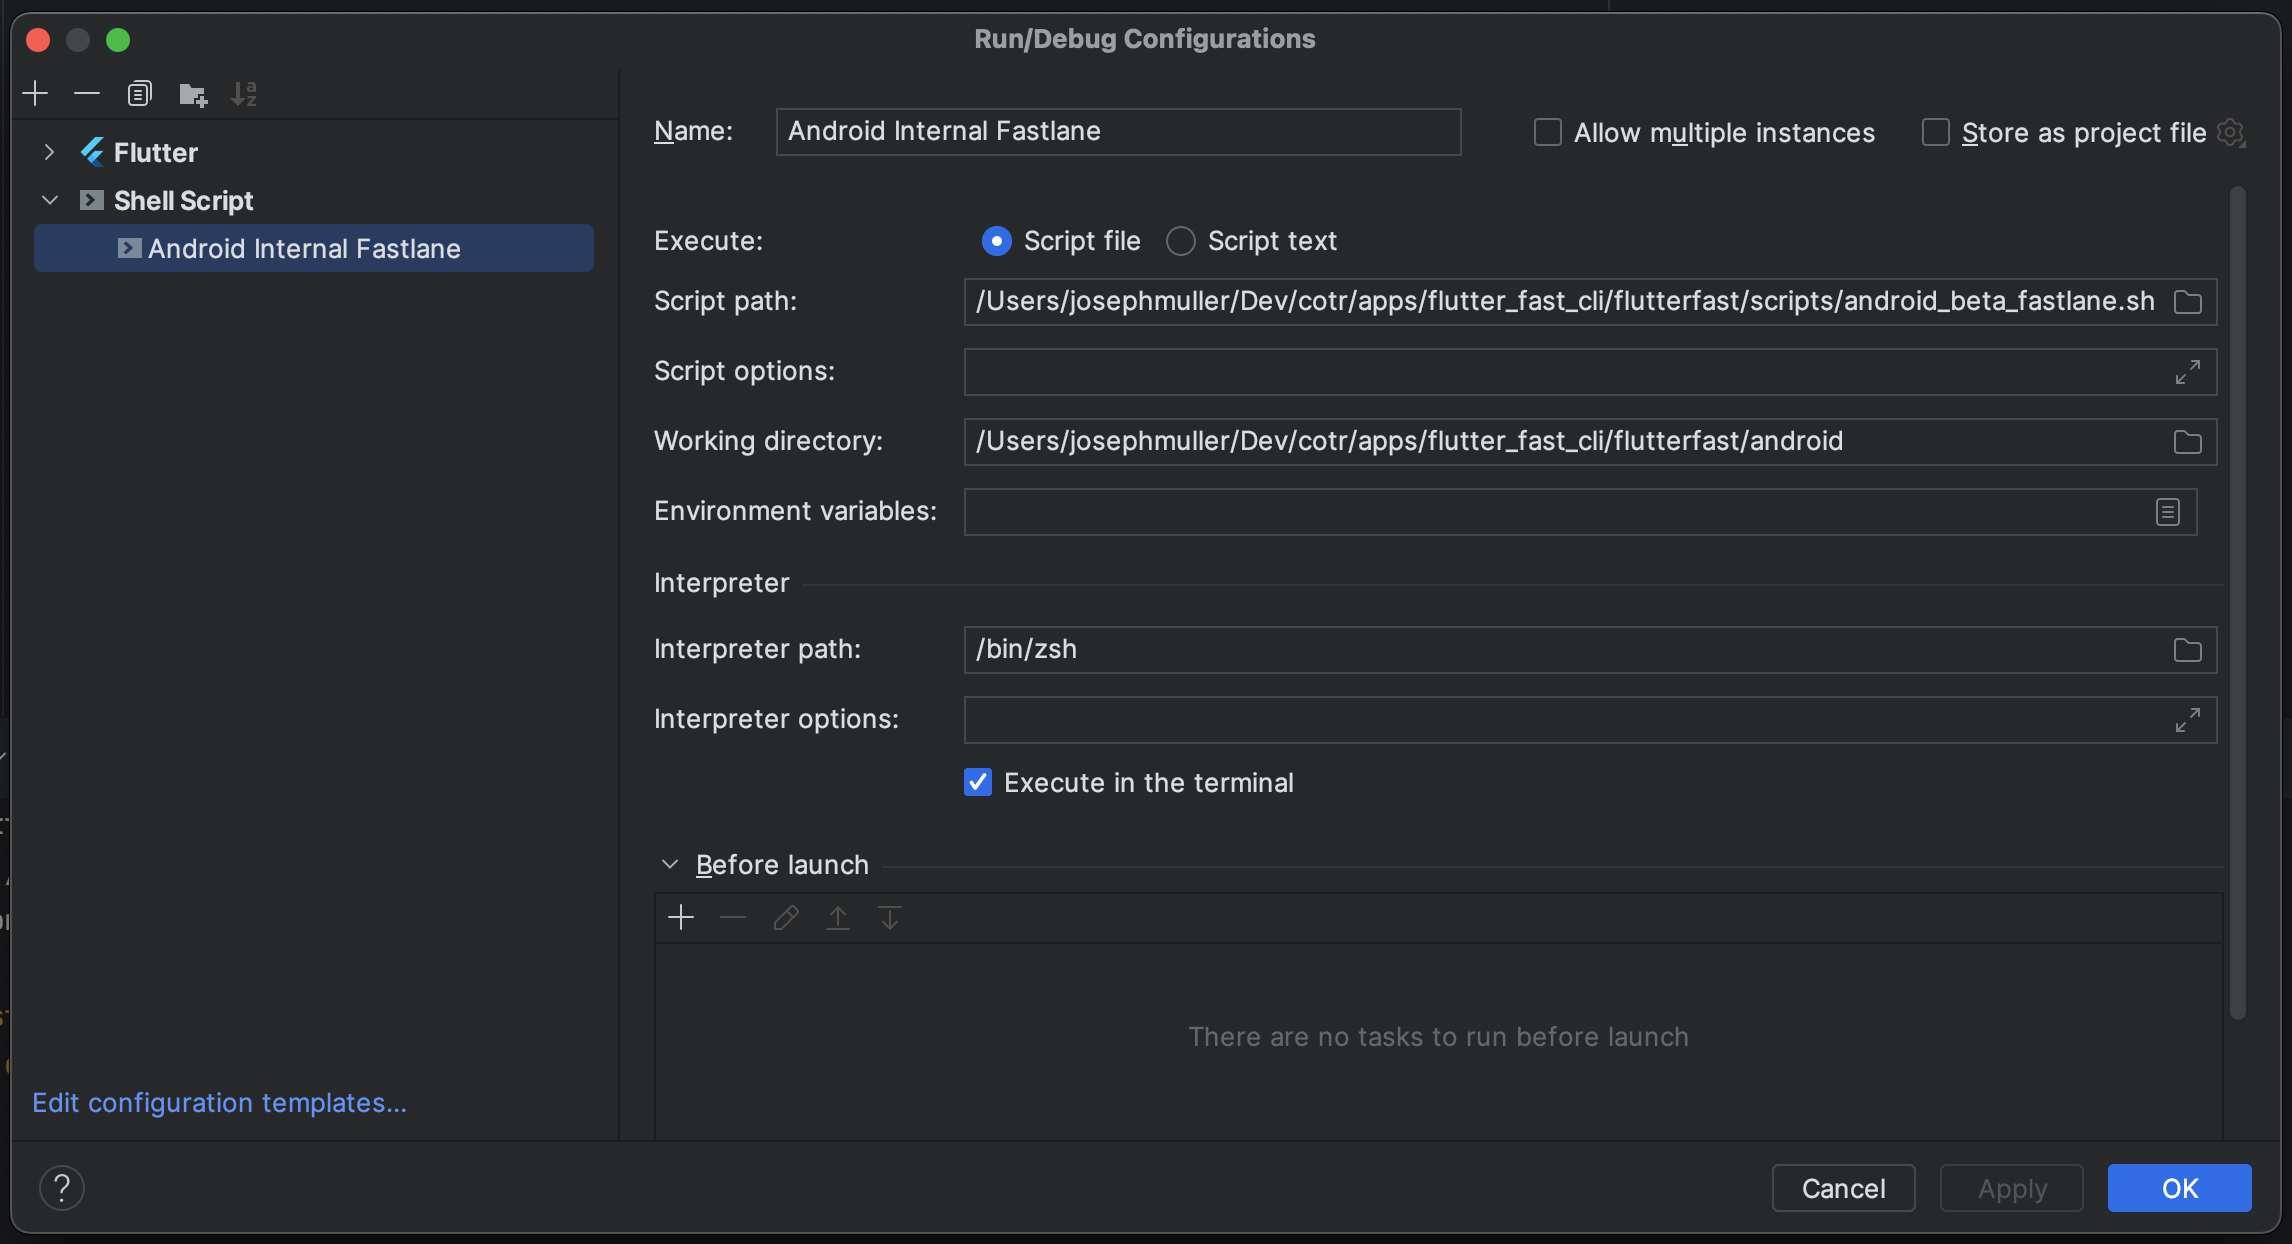
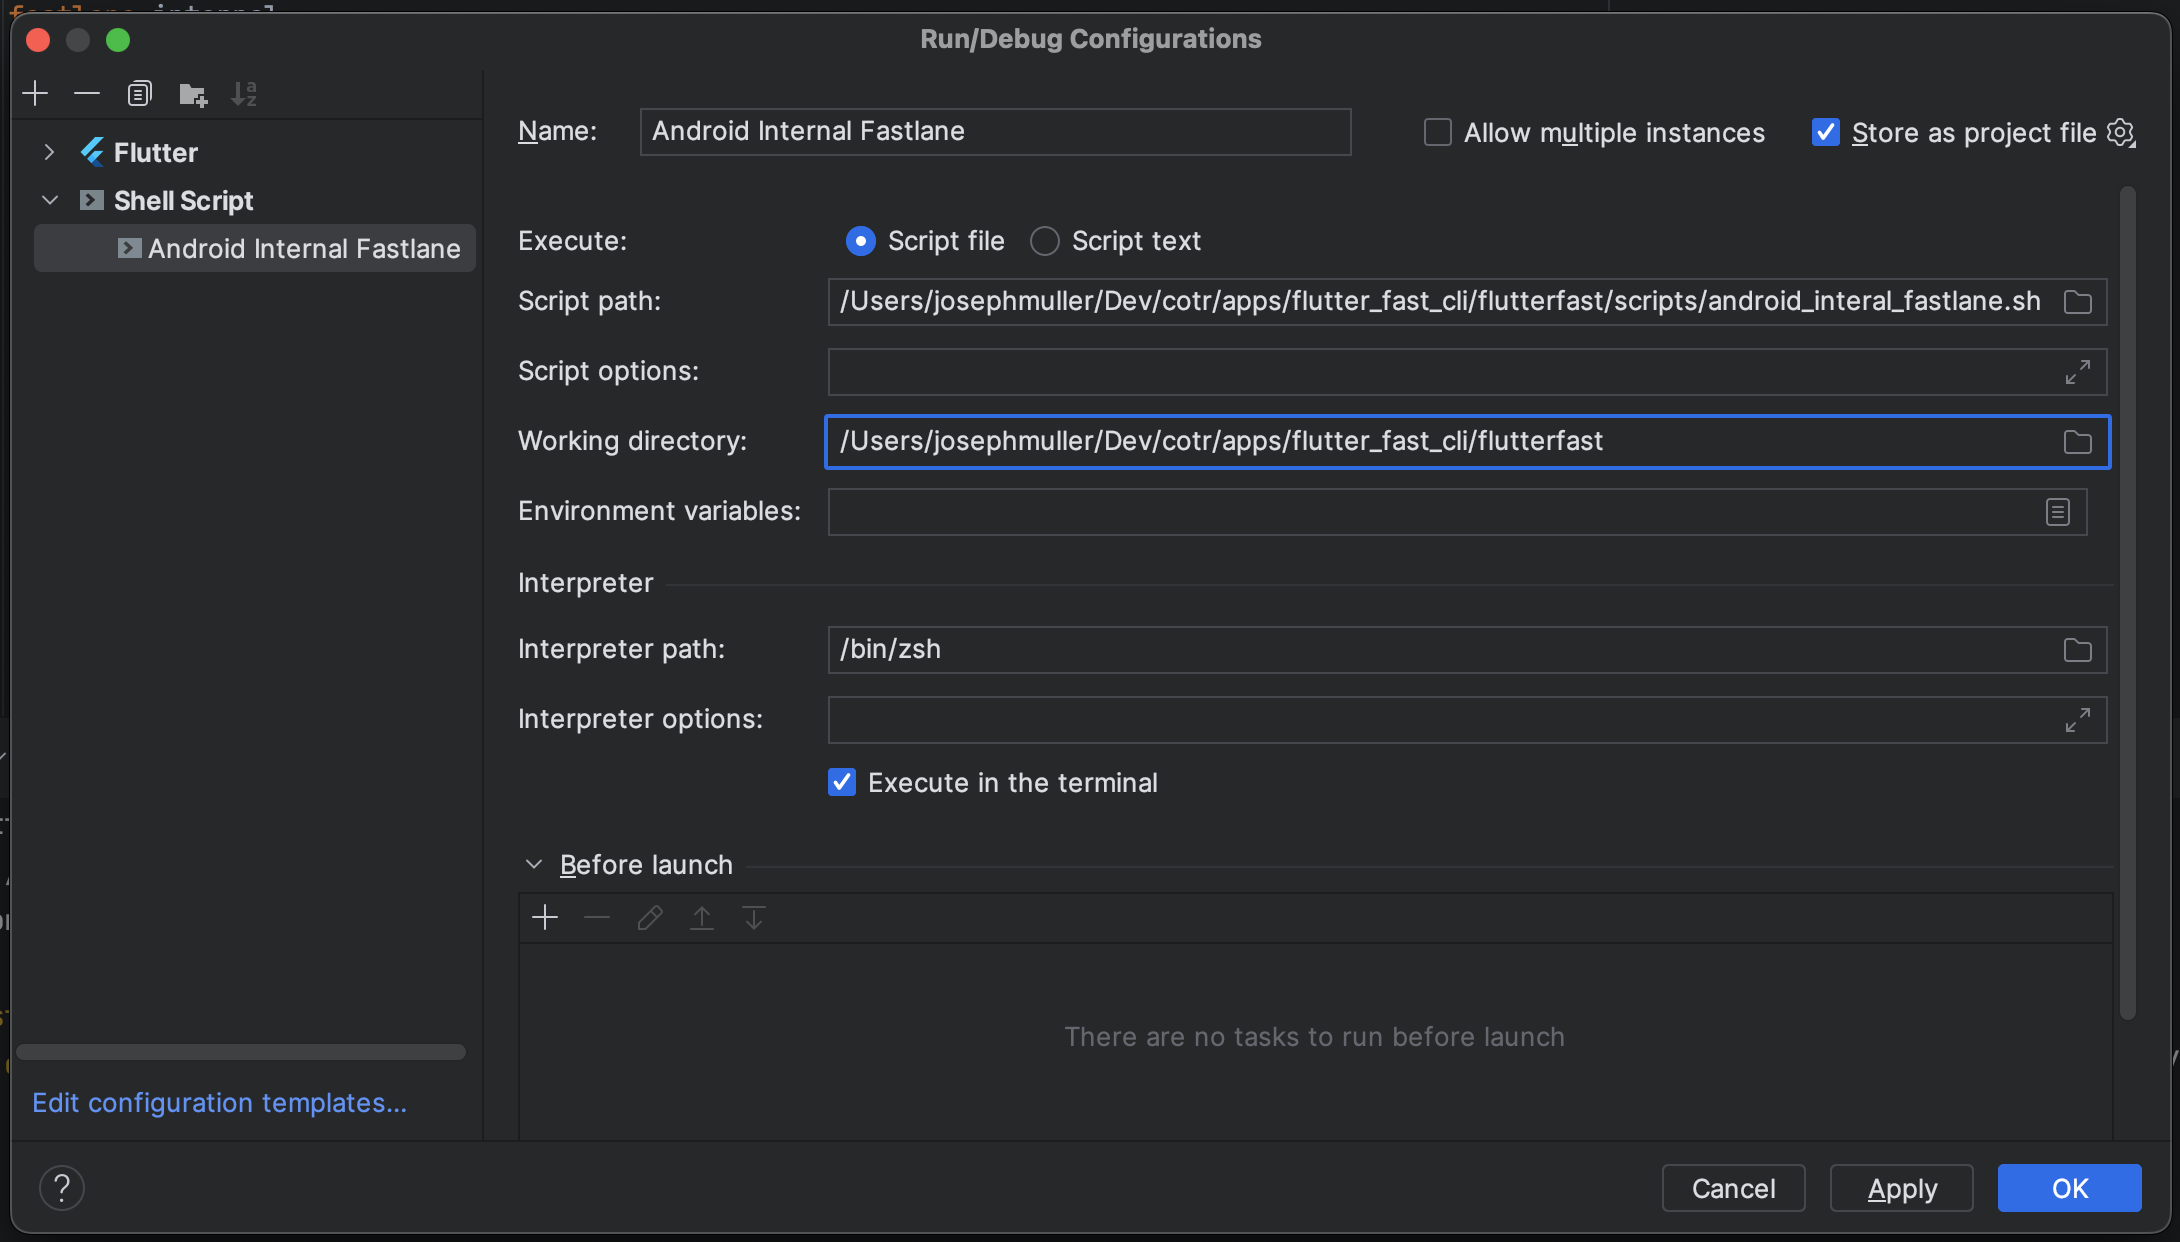
Docs link

diff --git a/src/content/docs/docs/setup/fastlane.md b/src/content/docs/docs/setup/fastlane.md
@@ -10,16 +10,40 @@ Nothing to do ☕
 The Flutter Fast boilerplate includes simple shell scripts you can use to run the Fastlane files without using the terminal.
 
 #### Android Studio
+:::note
+This is completed for you in version 1.0.3
+:::
 1. Select the drop down by the run button in the top toolbar
 2. Select "Edit Configurations"
 3. Add a new "Shell Script" configuration using the plus icon
 4. Rename the configuration to match the Fastlane file you are setting up (ex. Android Internal Fastlane)
-5. Update the script path to point to the matching fastlane script (in the scripts folder
-6. Update the working directory to point to your app's android folder
+5. Update the script path to point to the matching fastlane script (in the scripts folder)
+6. Update the working directory to point to your app's root folder
 7. Hit "OK"
 
 
 ![Android Studio Script Setup](./android_shell_setup.png)
 
+Once this is setup, you can run the "Android Internal Fastlane" script from the runner dropdown.
+
+#### VS Code
+
+:::note
+This is completed for you in version 1.0.3
+:::
+
+On the Run and Debug tab, select the link to create a launch.json file if you don't already have one. Choose the "Dart and Flutter" template when asked: 
 
 
+![VS Code Script setup](./vs-code-setup.png)
+
+Add a new entry to the configurations list that looks like this:
+```
+{
+    "name": "iOS Beta Fastlane",
+    "request": "launch",
+    "type": "node-terminal",
+    "command": "bash ${workspaceFolder}/scripts/ios_beta_fastlane.sh",
+}
+```
+Now you can select "iOS Beta Fastlane" from the runner dropdown. Repeat steps to setup other fastlanes.

diff --git a/src/content/docs/docs/start/why.md b/src/content/docs/docs/start/why.md
@@ -3,23 +3,40 @@ title: Why Flutter Fast
 description: How can Flutter Fast save you time, money, and brain power
 ---
 Flutter is fast by default, but setting up a new project isn't. You need...
-- An authentication service with sign in, sign up, forgot password, and profile pages. 
-- Onboarding logic.
-- A database. 
-- A dependency injection solution. 
-- A state management package. 
-- A theme. 
-- A handful of dependencies in your pubspec. 
-- An analysis_options.yaml file. 
-- Extensions.
-- CI/CD files.
-- A trusty .gitignore.
-- A subscription service and offering page.
-- Crash reporting.
-- An analytics infrastructure.
-- A router and navigation guards.
-- That thing you always forget.
-- That other thing you always forget.
+
+• An authentication service with sign in, sign up, forgot password, and profile pages. 
+
+• Onboarding logic.
+
+• A database. 
+
+• A dependency injection solution. 
+
+• A state management package. 
+
+• A theme. 
+
+• A handful of dependencies in your pubspec. 
+
+• An analysis_options.yaml file. 
+
+• Extensions.
+
+• CI/CD files.
+
+• A trusty .gitignore.
+  
+• A subscription service and offering page.
+
+• Crash reporting.
+
+• An analytics infrastructure.
+
+• A router and navigation guards.
+  
+• That thing you always forget.
+
+• That other thing you always forget.
 
 I created Flutter Fast because I wanted to jump straigt into the fun part of building my ideas without spending the first 8 hours getting everything _just_ right.
 

diff --git a/src/content/docs/docs/start/updates.md b/src/content/docs/docs/start/updates.md
@@ -21,6 +21,3 @@ dart pub global list
 
 flutter_fast_cli 1.0.1 at path "/Users/josephmuller/Dev/cotr/apps/flutter_fast_cli"
 ```
-- test 
-- test
-- test
